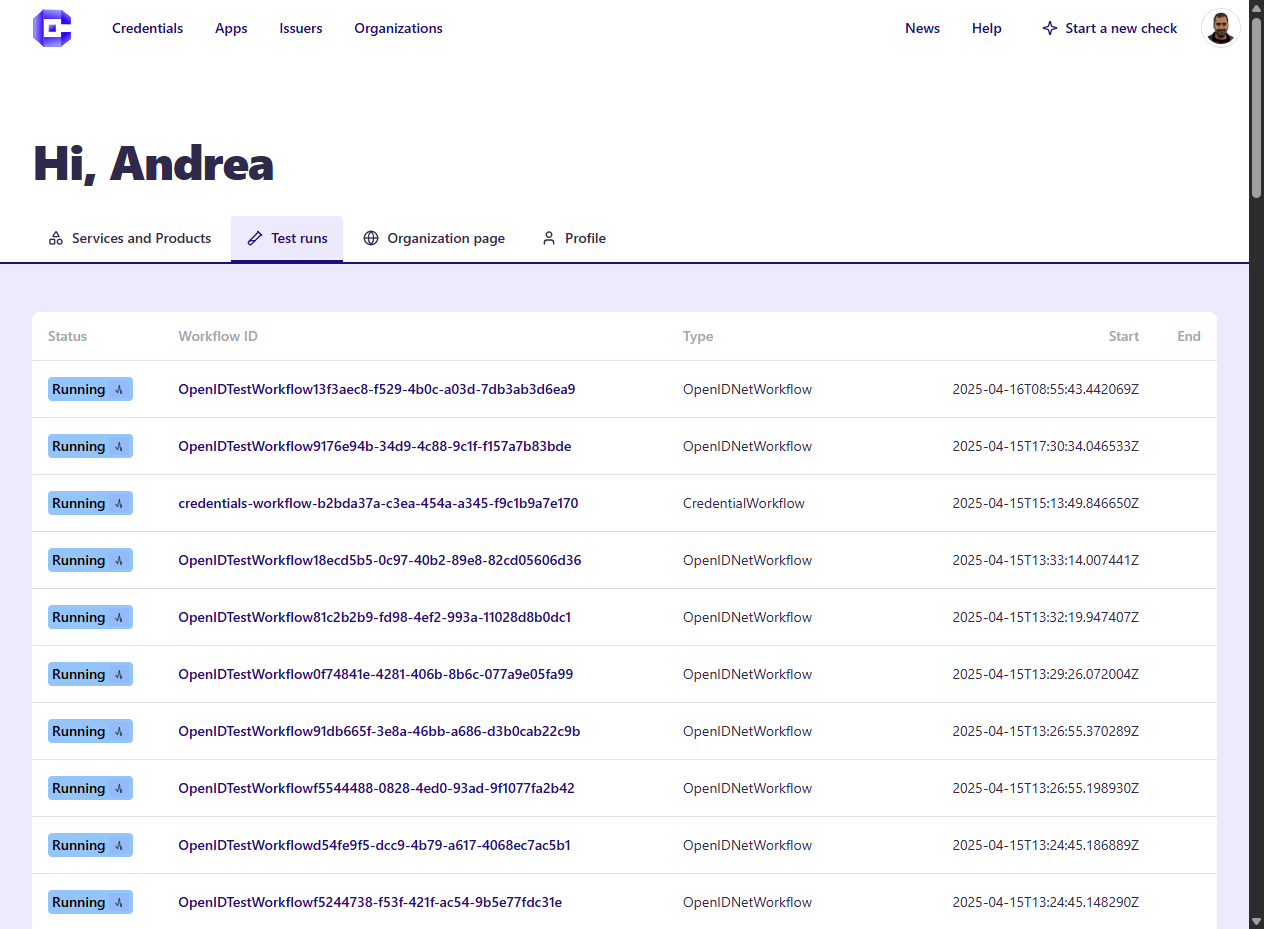
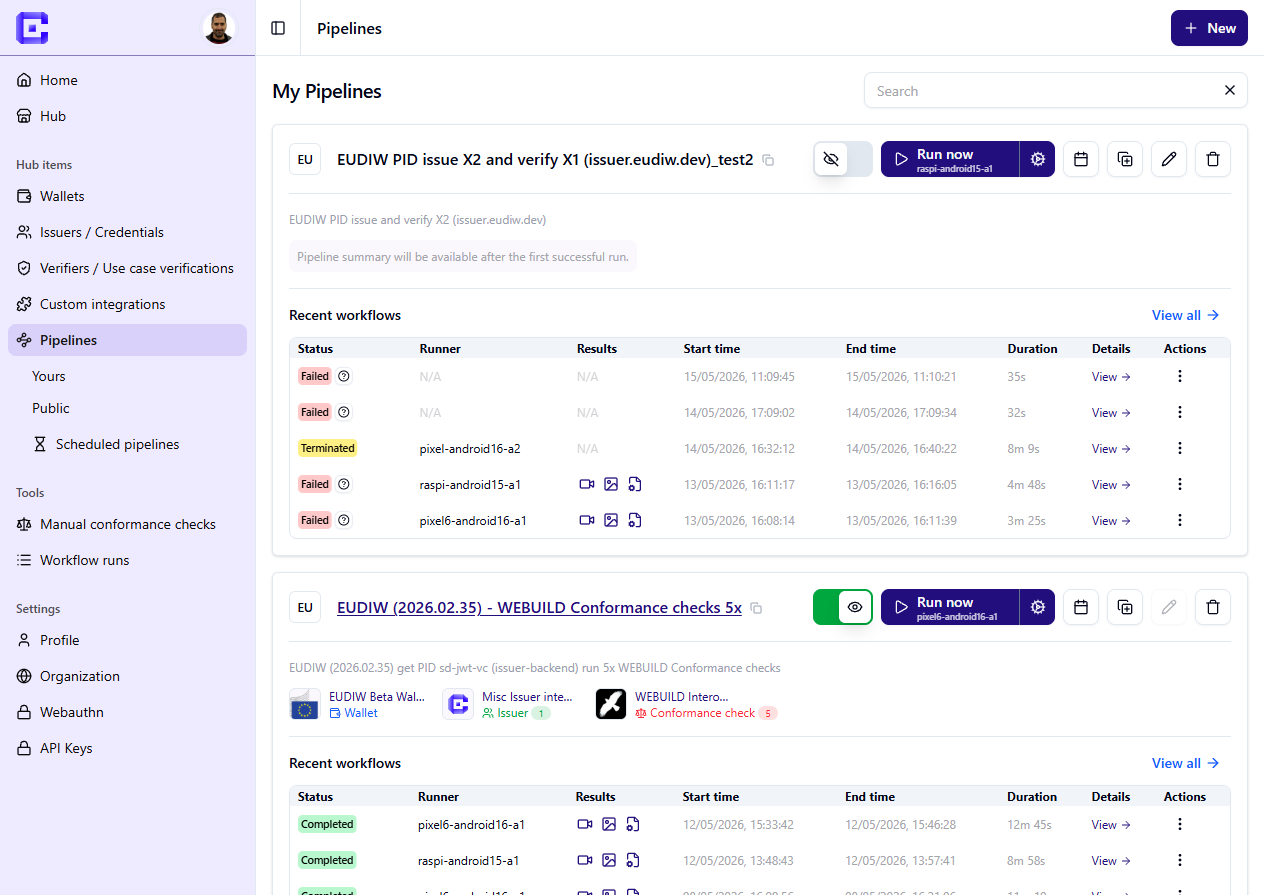
docs: update hub pics (#1185)
* docs: update hub pics

* fix: add pics and fix sidebar and refator to hub

---------

Pull request: docs: update hub pics
- **docs: update hub pics**
- **fix: add pics and fix sidebar and refator to hub**

diff --git a/docs/src/content/docs/manual/hub/try-issuance-and-verification-services.md b/docs/src/content/docs/manual/hub/try-issuance-and-verification-services.md
@@ -1,0 +1,40 @@
+---
+title: Try Issuance and Verification Services
+description: Use Hub QR codes and deeplinks to manually try issuance and verification services.
+---
+
+When a solution developer has added a StepCI integration, Credimi can expose a live issuance or verification flow directly on the Hub page.
+
+Typical user flow:
+
+1. open the credential page
+2. scan the QR code with a Wallet, or open the deeplink on the phone
+3. continue the issuance flow in the Wallet
+
+
+## Try a credential issuance flow
+
+Open a credential page and look for the generated QR code or deeplink.
+
+![Credential](../images/hub-credential1.png)
+
+#### Try from mobile
+
+You can browse the Hub and open a Credential or Use Case Verification straight from your mobile phone. You can **click on the deeplink** to open your EUDI Wallet:
+
+
+![Credential_mobile](../images/marketplace-credential-mobile1.png)
+
+
+
+### Try a verification flow
+
+Verification pages follow the same general pattern, but the output is a presentation request instead of a credential offer.
+
+## What powers these flows
+
+The QR code and deeplink shown on the Hub are generated by a StepCI recipe configured by the solution developer.
+
+:::tip
+Check how to integrate your [Issuer and Verifier using StepCI](../publish-to-hub/integrate-with-stepci.md)
+:::

diff --git a/docs/src/content/docs/manual/hub/index.md b/docs/src/content/docs/manual/hub/index.md
@@ -1,0 +1,33 @@
+---
+title: Hub Overview
+description: Explore components and solutions published on Credimi and try issuance and verification services from the Hub.
+---
+
+The Hub is the public entry point to Credimi. Users do **not** need an account to browse it.
+
+The Hub is designed for two related goals:
+
+- help visitors explore available Wallets, Issuers, Verifiers and credentials
+- let visitors directly try issuance and verification services exposed by solution developers
+
+Typical actions in this section:
+
+- browse components and solutions
+- open a credential or verification page
+- scan a QR code or open a deeplink on a phone
+- compare what different solutions expose
+
+
+###
+![Hub issuers](../images/hub-issuers-list1.png)
+***Hub listing of Issuers and Credentials***
+###
+![Hub issuer](../images/hub-issuer1.png)
+***Hub listing of one Issuer***
+
+###
+![Hub credential](../images/hub-credential1.png)
+***Hub listing of one credential issuance flow: scan the QR with your Wallet to try it***
+
+
+Continue with the next pages depending on whether you want to browse or directly try a flow.

diff --git a/docs/src/content/docs/index.md b/docs/src/content/docs/index.md
@@ -1,29 +1,29 @@
 ---
 title: Credimi Manual
-description: User-facing guide to the Marketplace, conformance and interoperability testing, publishing integrations, and testing automation.
+description: User-facing guide to the Hub, conformance and interoperability testing, publishing integrations, and testing automation.
 ---
 
 Credimi has four main user-facing areas:
 
-1. **Marketplace** — anyone can explore components and solutions and try issuance or verification services.
+1. **Hub** — anyone can explore components and solutions and try issuance or verification services.
 2. **Conformance & Interop** — logged-in users can run conformance checks and test how Wallets, Issuers and Verifiers work together.
-3. **Publish to Marketplace** — solution developers can list Wallets, Issuers and Verifiers, then integrate issuers and verifiers with StepCI so visitors can try them from credimi.io.
+3. **Publish to Hub** — solution developers can list Wallets, Issuers and Verifiers, then integrate issuers and verifiers with StepCI so visitors can try them from credimi.io.
 4. **Testing Automation** — after StepCI and Maestro assets are in place, the same flows can be automated with pipelines.
 
 Use the sections below depending on what you want to do.
 
-## Marketplace
+## Hub
 
 For users who want to browse the ecosystem and manually try flows.
 
 - Explore listed Wallets, Issuers, Verifiers and credentials
 - Open a credential or verification page and try the exposed service
-- Reuse marketplace integrations later in manual tests and pipelines
+- Reuse Hub integrations later in manual tests and pipelines
 
 ###
 
-![Marketplace issuers](./manual/images/marketplace-issuers1.png)
-***Marketplace listing of issuers and credentials***
+![Hub issuers](./manual/images/hub-issuers-list1.png)
+***Hub listing of issuers and credentials***
 
 
 
@@ -35,7 +35,7 @@ For logged-in users who want to test solutions.
 - Compare conformance suites and results
 - Try interoperability flows with third-party Issuers and Verifiers
 
-## Publish to Marketplace
+## Publish to Hub
 
 For solution developers who want to expose their solution on Credimi.
 

diff --git a/docs/src/content/docs/manual/browse-hub.md b/docs/src/content/docs/manual/browse-hub.md
@@ -1,25 +1,25 @@
 ---
 title: "🏪 Hub"
-description: ""
+description: "Browse products, services, credentials, and public testing flows on the Credimi Hub."
 ---
 
-The Hub, contains:
- - Searchable list of **Verifiable Credentials** that are offered on the Hub (for testing or commercial purposes)
- - Searchable list of **software products and services**, such as Wallets, Issuers, Verifiers 
- - For each product and service, a list of the performed conformance checks (along with the latest results) are also visible
+The Hub contains:
+- A searchable list of **Verifiable Credentials** offered for testing or commercial purposes
+- A searchable list of **software products and services**, such as Wallets, Issuers, and Verifiers
+- Public status and conformance information for each listed product or service
 
-Anyone can browse the Hub, no user account is required
+Anyone can browse the Hub. No user account is required.
 
 ## Browse products and services
 Credimi's Hub showcases **Mobile Apps** (typically Wallets), **Credentials**, **Issuers** and **Verifiers**. 
 
-Browse the Hub, use the filters or search for products or services using keywords and tags. 
+Browse the Hub, then use filters or search by keywords and tags. 
 
 ![credimiHub](./images/credimiHub.png)
 
 ## Search Credentials
 
-Credentials can be browsed and (when available) you can try to obtain them with your Wallet using the QR Code:
+Credentials can be browsed and, when available, tried directly with your Wallet using the QR code:
 
 ![credimiSingleCredential](./images/credimiSingleCredential.png)
 

diff --git a/docs/src/content/docs/manual/index.md b/docs/src/content/docs/manual/index.md
@@ -1,30 +1,30 @@
 ---
 title: Credimi Manual
-description: User-facing guide to the Marketplace, conformance and interoperability testing, publishing integrations, and testing automation.
+description: User-facing guide to the Hub, conformance and interoperability testing, publishing integrations, and testing automation.
 ---
 
 Credimi has four main user-facing areas:
 
-1. **Marketplace** — anyone can explore components and solutions and try issuance or verification services.
+1. **Hub** — anyone can explore components and solutions and try issuance or verification services.
 2. **Conformance & Interop** — logged-in users can run conformance checks and test how Wallets, Issuers and Verifiers work together.
-3. **Publish to Marketplace** — solution developers can list Wallets, Issuers and Verifiers, then integrate issuers and verifiers with StepCI so visitors can try them from credimi.io.
+3. **Publish to Hub** — solution developers can list Wallets, Issuers and Verifiers, then integrate issuers and verifiers with StepCI so visitors can try them from credimi.io.
 4. **Testing Automation** — after StepCI and Maestro assets are in place, the same flows can be automated with pipelines.
 
 Use the sections below depending on what you want to do.
 
-## Marketplace
+## Hub
 
 For users who want to browse the ecosystem and manually try flows.
 
 - Explore listed Wallets, Issuers, Verifiers and credentials
 - Open a credential or verification page and try the exposed service
-- Reuse marketplace integrations later in manual tests and pipelines 
+- Reuse Hub integrations later in manual tests and pipelines 
 
 ###   
 
 
-![Marketplace issuers](./images/marketplace-issuers1.png)
-***Marketplace listing of issuers and credentials***
+![Hub issuers](./images/hub-issuers-list1.png)
+***Hub listing of issuers and credentials***
 
 
 
@@ -37,7 +37,7 @@ For logged-in users who want to test solutions.
 - Compare conformance suites and results
 - Try interoperability flows with third-party Issuers and Verifiers
 
-## Publish to Marketplace
+## Publish to Hub
 
 For solution developers who want to expose their solution on Credimi.
 

diff --git a/docs/src/content/docs/manual/conformance/index.md b/docs/src/content/docs/manual/conformance/index.md
@@ -5,7 +5,7 @@ description: Logged-in testing features for conformance checks and interoperabil
 
 The conformance and interoperability area is for users who are actively testing a solution.
 
-Unlike the public Marketplace, this section requires login and is clearly presented as part of the authenticated Credimi workflow.
+Unlike the public Hub, this section requires login and is clearly presented as part of the authenticated Credimi workflow.
 
 Main use cases:
 
@@ -17,7 +17,7 @@ Main use cases:
 
 Credimi supports two complementary ways of testing solutions:
 
-- **manual testing**, directly from the Marketplace or from the Conformance UI  
+- **manual testing**, directly from the Hub or from the Conformance UI  
 - **automated testing**, using pipelines  
 
 Both approaches use the same underlying integrations (Issuers, Verifiers, Wallets), but differ in how execution is triggered and controlled.
@@ -46,7 +46,7 @@ Manual testing is designed for **exploration and quick validation**.
 
 Users can:
 
-- open a credential or verification page from the Marketplace
+- open a credential or verification page from the Hub
 - trigger issuance or verification flows directly
 - scan a QR code or click a deeplink using a Wallet
 - run individual conformance tests from selected suites
@@ -68,9 +68,9 @@ Manual testing is especially useful when:
 
 ---
 
-### Automated testing via [Pipelines](https://credimi.io/marketplace?tab=pipelines) 
+### Automated testing via [Pipelines](https://credimi.io/hub?tab=pipelines) 
 
-Automated testing uses  [Pipelines](https://credimi.io/marketplace?tab=pipelines) to execute the same flows without manual intervention.
+Automated testing uses [Pipelines](https://credimi.io/hub?tab=pipelines) to execute the same flows without manual intervention.
 
 A pipeline combines:
 
@@ -124,9 +124,9 @@ They are executed as part of automated pipelines and produce:
 - machine-readable outputs
 
 
-## Relation with the Marketplace
+## Relation with the Hub
 
 These two areas are logically connected:
 
-- the Marketplace lets users discover and manually try solutions
+- the Hub lets users discover and manually try solutions
 - the Conformance & Interop area lets logged-in users execute structured test flows against those solutions

diff --git a/docs/src/content/docs/manual/hub-publish.md b/docs/src/content/docs/manual/hub-publish.md
@@ -1,36 +1,36 @@
 ---
 title: "🚀 Publish on the Hub"
-description: ""
+description: "Publish Wallets, Issuers, Verifiers, and related integrations on the Credimi Hub."
 ---
 
 Any registered user can publish Products and Services (Wallets, Issuers, Verifiers) on the Hub. 
 
-In order to publish a Product/Service, first an organization must be configured. After that, there are different paths to create or import a Product/Service.
+To publish a product or service, an organization must be configured first. After that, you can create or import products and services through different paths.
 
 ## Create an organization
-When you sign-up as new User, an empty organization is also created. This organization can be edited in the Developer Dashboard. 
+When you sign up as a new user, an empty organization is also created. This organization can be edited in the Developer Dashboard. 
 
 
 ![credimiOrganizationEdit](./images/credimiOrganizationEdit.png)
 
 ## Add a Product/Service
-There are different paths to create Producs (typically Mobile Wallets) and Services (typically Credential Issuance and Verification): 
+There are different paths to create products (typically mobile Wallets) and services (typically credential issuance and verification): 
 
 ![credimiDevDashboardProducts](./images/credimiDevDashboardProducts.png)
 
 #### Add a Wallet
 
-- Products (Wallets): click on **Add Wallet** and fill all the fields. A Product is created from scratch and later edited. The Product contains primarily metadata (name, description, logo, links). 
+- Products (Wallets): click on **Add Wallet** and fill in all fields. A product is created from scratch and can be edited later. It mainly contains metadata such as name, description, logo, and links. 
 
 ![credimiDevDashboardAddWallet](./images/credimiDevDashboardAddWallet.png)
 
 #### Add a Credential (...add a Credential Issuer first!)
 
-- Credential Issuance: in order to add a Crdential Issuance service, you first need to setup an Issuer. You can start the process by clicking on **Add a Credential Issuer**. Upon entering an Issuer's URL in the windows, all the Credentials offered by the Issuer are (should be!) automatically created and populated. 
+- Credential issuance: to add a credential issuance service, first set up an Issuer. Start by clicking **Add a Credential Issuer**. After entering an Issuer URL, the credentials offered by that Issuer should be automatically created and populated. 
 
 ![credimiAddIssuer](./images/credimiAddIssuer.png)
 
-Following that, for each Credential, a deeplink (with a corresponding auto-generated QR Code) will be auto-generated and can be modified manually. This allows **visitors to test the Credential Issuance Flow with their Wallets**.
+After that, each credential gets a deeplink with a corresponding auto-generated QR code. You can still modify it manually. This allows **visitors to test the credential issuance flow with their Wallets**.
 
 
 #### Add a Verifier 

diff --git a/docs/src/content/docs/manual/testing-automation/create-maestro-actions.md b/docs/src/content/docs/manual/testing-automation/create-maestro-actions.md
@@ -18,8 +18,8 @@ Maestro is the UI automation layer used by Credimi for Wallet-side behavior.
 1. Credimi pipelines can be executed in a [Credimi-runner](https://github.com/ForkbombEu/credimi-runner) instance: we offer some machine/emulators hosted by us, you can host your own or use 3rd party services such as Maestro Cloud (ask as if you want to know more).
 
 :::tip
-- Browse Maestro and StepCI [scripting recipes](../publish-to-marketplace/yaml-examples.md)
-- All the Maestro and StepCI scripts are in the [Marketplace](https://credimi.io/marketplace), under Wallets / Credentials / Use Case Verifications
+- Browse Maestro and StepCI [scripting recipes](../yaml-examples.md)
+- All the Maestro and StepCI scripts are in the [Hub](https://credimi.io/hub), under Wallets / Credentials / Use Case Verifications
 - See [Maestro documentation](https://docs.maestro.dev/reference/commands-available)
 :::
 
@@ -88,7 +88,7 @@ In Credimi, pipelines are composed from assets that already exist, you usually c
 At the same time, you can re-use StepCI and Maestro Actions written by others (and they can use yours).
 
 :::tip
-- Browse Maestro and StepCI [scripting recipes](../publish-to-marketplace/yaml-examples.md)
-- All the Maestro and StepCI scripts are in the [Marketplace](https://credimi.io/marketplace), under Wallets / Credentials / Use Case Verifications
+- Browse Maestro and StepCI [scripting recipes](../yaml-examples.md)
+- All the Maestro and StepCI scripts are in the [Hub](https://credimi.io/hub), under Wallets / Credentials / Use Case Verifications
 - See [Maestro documentation](https://docs.maestro.dev/reference/commands-available)
 :::

diff --git a/docs/src/content/docs/manual/create-first-pipeline.md b/docs/src/content/docs/manual/create-first-pipeline.md
@@ -56,7 +56,7 @@ Or:
 openid-credential-offer://
 ```
 
-If you publish the integration, you can you can preview the StepCI output directly in the **Marketplace** https://credimi.io/marketplace?tab=credential-issuers-and-credentials :
+If you publish the integration, you can preview the StepCI output directly in the **Hub** at https://credimi.io/hub?tab=credential-issuers-and-credentials :
 
 * QR code
 * clickable deeplink
@@ -72,12 +72,12 @@ If you publish the integration, you can you can preview the StepCI output direct
 
 ![Wallet list](./images/wallet-list.png)
 
-- Click on **+ Add new wallet** and add the metadata, this could be visible on the Marketplace if you publish the Wallet.
+- Click on **+ Add new wallet** and add the metadata. This can be visible on the Hub if you publish the Wallet.
 - If the Wallet is already on the Android/iOS stores, you can import the metadata from there
 
 ![Wallet editor](./images/wallet-editor.png)
 
-- **Important**: add a Wallet version and upload the .apk and iOS packges. This will enable the pipeline engine to automatically install the Wallet on the device/emulator/simulator for automated testing. The *Version* can optionally be made *downloadable* from the Marketplace (but this is not a requirement for the automated testing to work.
+- **Important**: add a Wallet version and upload the .apk and iOS packages. This enables the pipeline engine to automatically install the Wallet on the device, emulator, or simulator for automated testing. The *Version* can optionally be made *downloadable* from the Hub, but this is not required for automated testing to work.
 
 ![Version editor](./images/wallet-version-editor.png)
 

diff --git a/docs/src/content/docs/manual/testing-automation/index.md b/docs/src/content/docs/manual/testing-automation/index.md
@@ -3,7 +3,7 @@ title: Testing Automation Overview
 description: Automate issuance, verification and conformance flows with Maestro and pipelines.
 ---
 
-After marketplace listings and StepCI integrations exist, Credimi can automate the same flows.
+After Hub listings and StepCI integrations exist, Credimi can automate the same flows.
 
 The automation model has two building blocks:
 

diff --git a/docs/src/content/docs/manual/yaml-examples.md b/docs/src/content/docs/manual/yaml-examples.md
@@ -5,7 +5,7 @@ description: ""
 
 The Credimi Hub dynamically generates QR codes for both Credential Offers (OpenID4VCI) and Presentation Requests (OpenID4VP). 
 
-These QR codes are powered by StepCI recipes and exposed in the Hub (Credentials and Use Case Verifications pages), so end-users (and developers) can try manual interoperability flows. The same StepCI code is used to setup end-to-end automatice Wallet-to-Issuer/Verifier automated checks.
+These QR codes are powered by StepCI recipes and exposed in the Hub under Credentials and Use Case Verifications, so end users and developers can try manual interoperability flows. The same StepCI code is used to set up end-to-end Wallet-to-Issuer/Verifier automated checks.
 
 ### Use cases
 

diff --git a/docs/src/content/docs/software-architecture/scoreboard-architecture.md b/docs/src/content/docs/software-architecture/scoreboard-architecture.md
@@ -75,7 +75,7 @@ description: ""
 2. SvelteKit `load` calls `Scoreboard.loadData()` from `$lib/scoreboard`
 3. Frontend queries PocketBase `pipeline_scoreboard_cache` with expanded relations
 4. `ScoreboardTable` renders a paginated, sortable TanStack table
-5. Rows link to marketplace pipeline pages via entity display helpers
+5. Rows link to Hub pipeline pages via entity display helpers
 
 ### Homepage Summary Flow
 